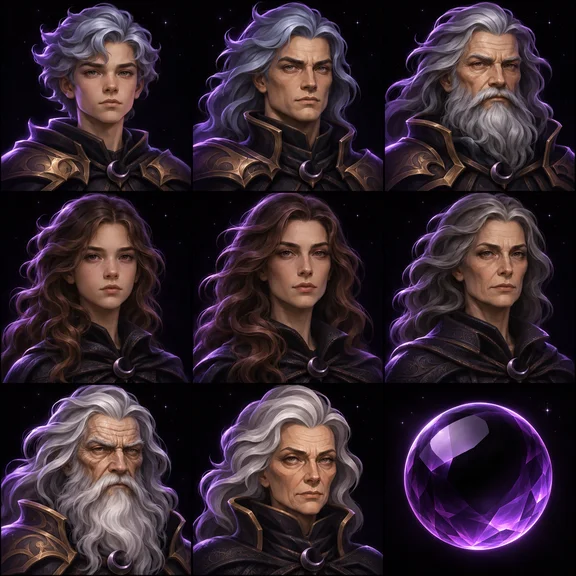
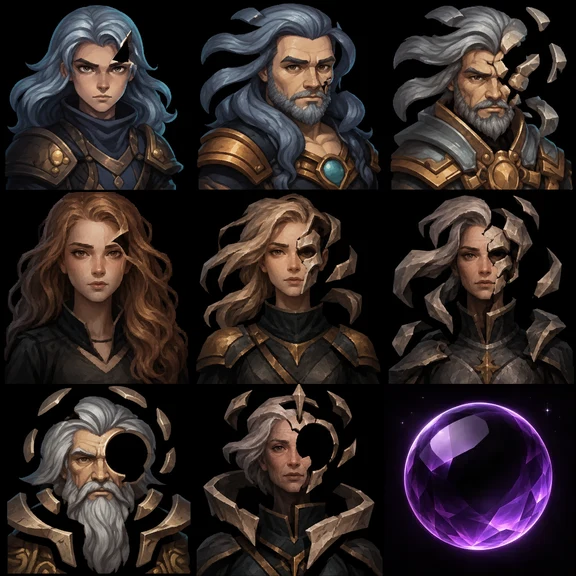
Repaint Void portraits from character-specific Remastered sprites

diff --git a/sw.js b/sw.js
@@ -1,5 +1,5 @@
 const prefix = 'progress-knight-' + self.registration.scope + '-';
-const cacheName = prefix + 'void-orb-1';
+const cacheName = prefix + 'void-portraits-2';
 self.addEventListener('install', event => {
   event.waitUntil(caches.open(cacheName).then(cache => cache.addAll([
     './', './index.html', './previous.html','./centenarians.jpg','./isabella-100.jpg','./save-tools.js','./balance.js','./remastered.js','./remastered-art.jpg','./void-art.webp','./game.js', './late-art.jpg', './activity-art.jpg', './Magnus.png', './Isabella.png', './icon-180.png','./icon-192.png', './icon-512.png', './manifest.webmanifest'
